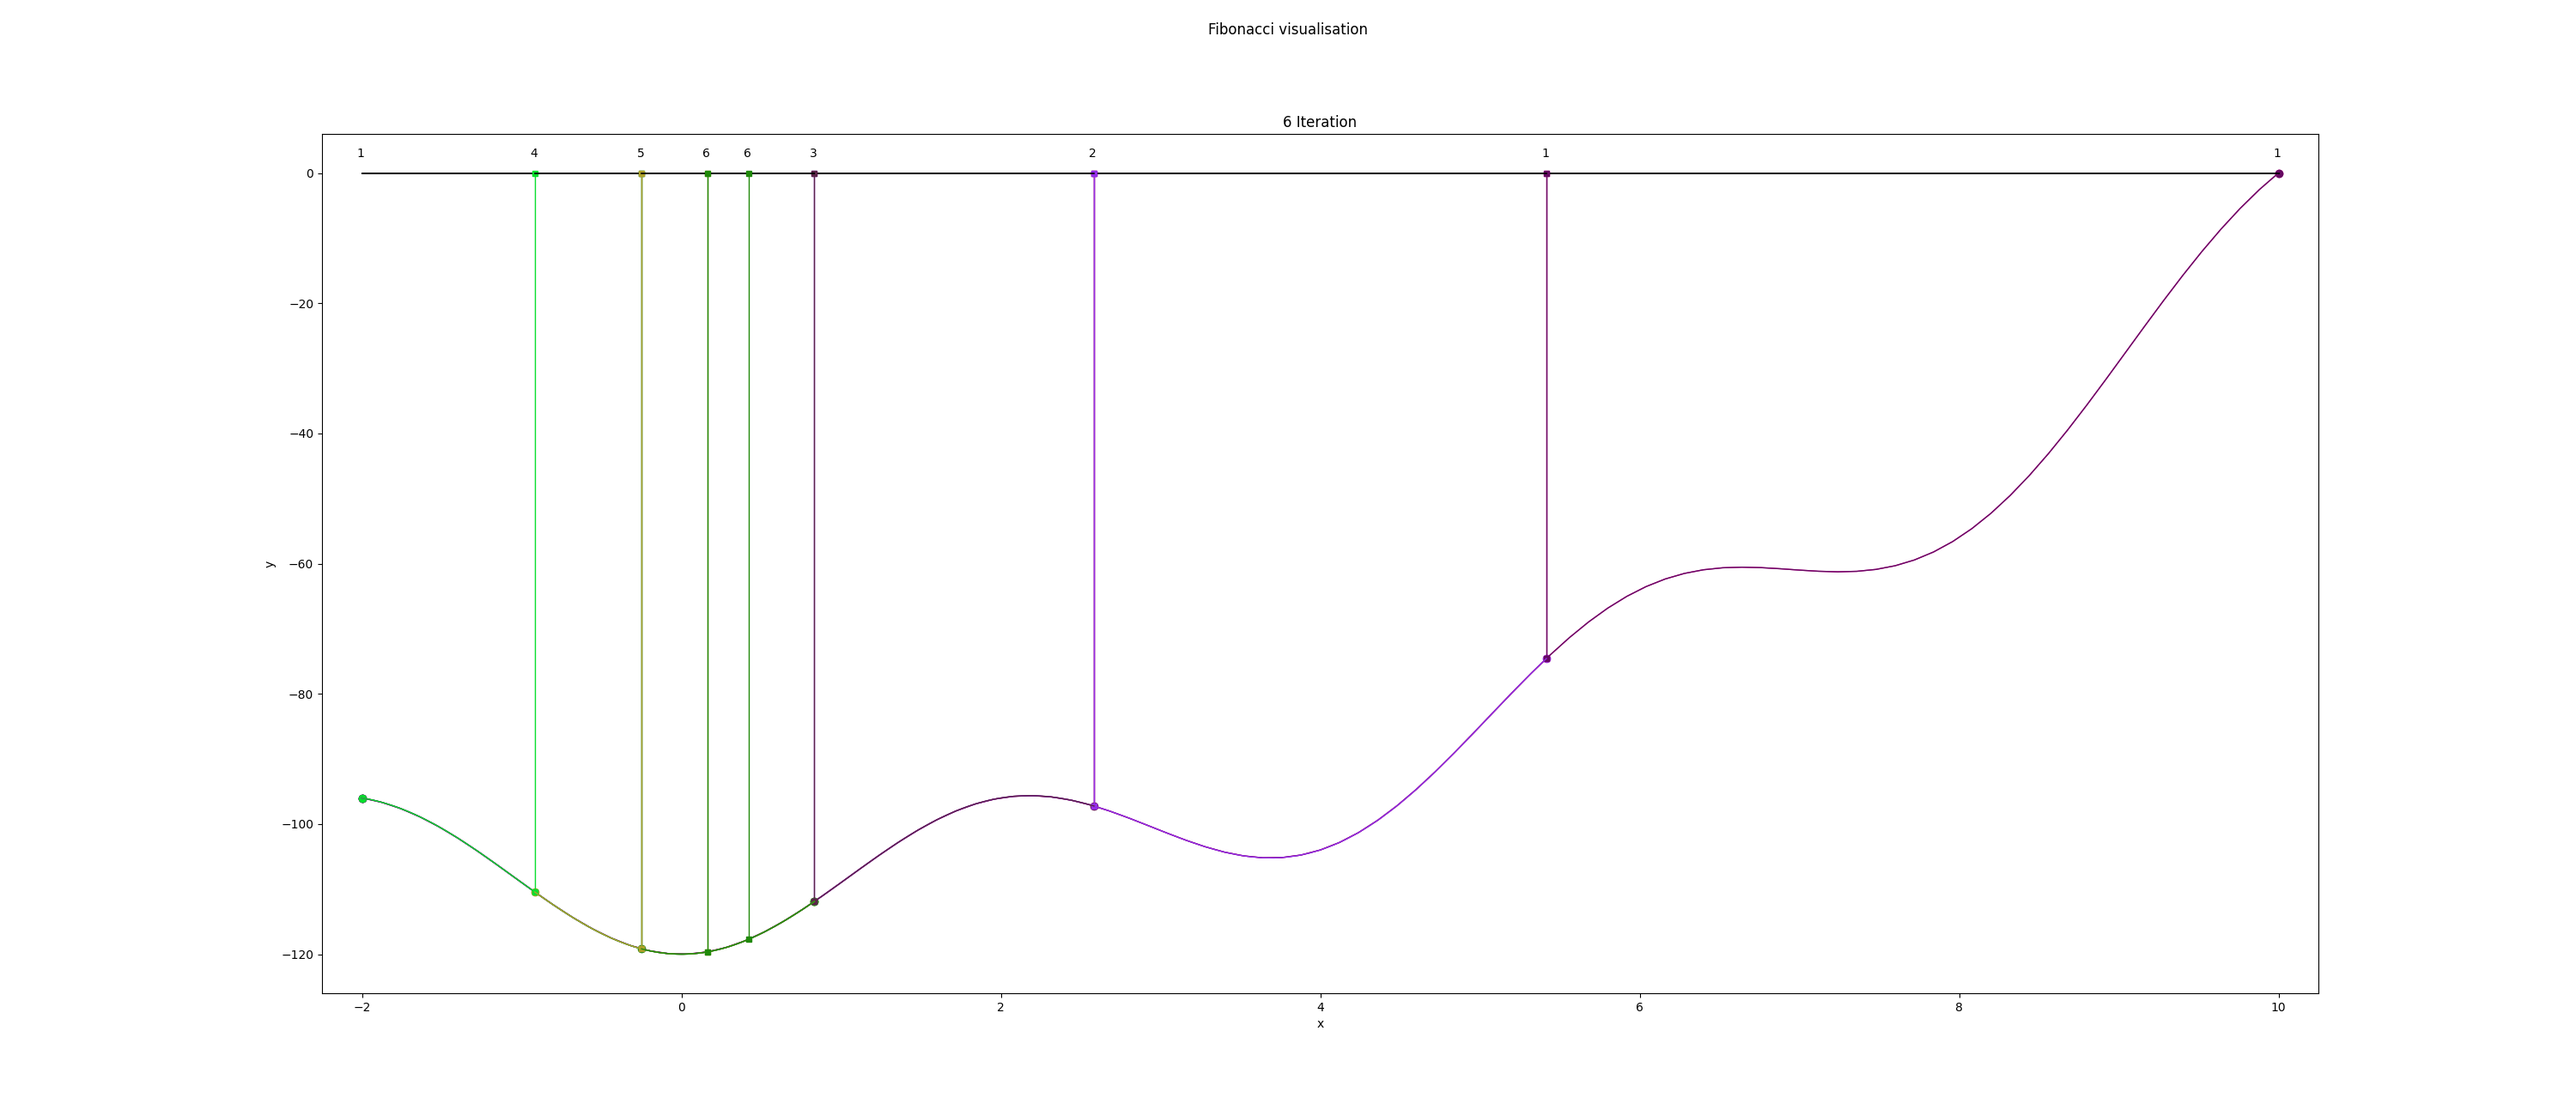
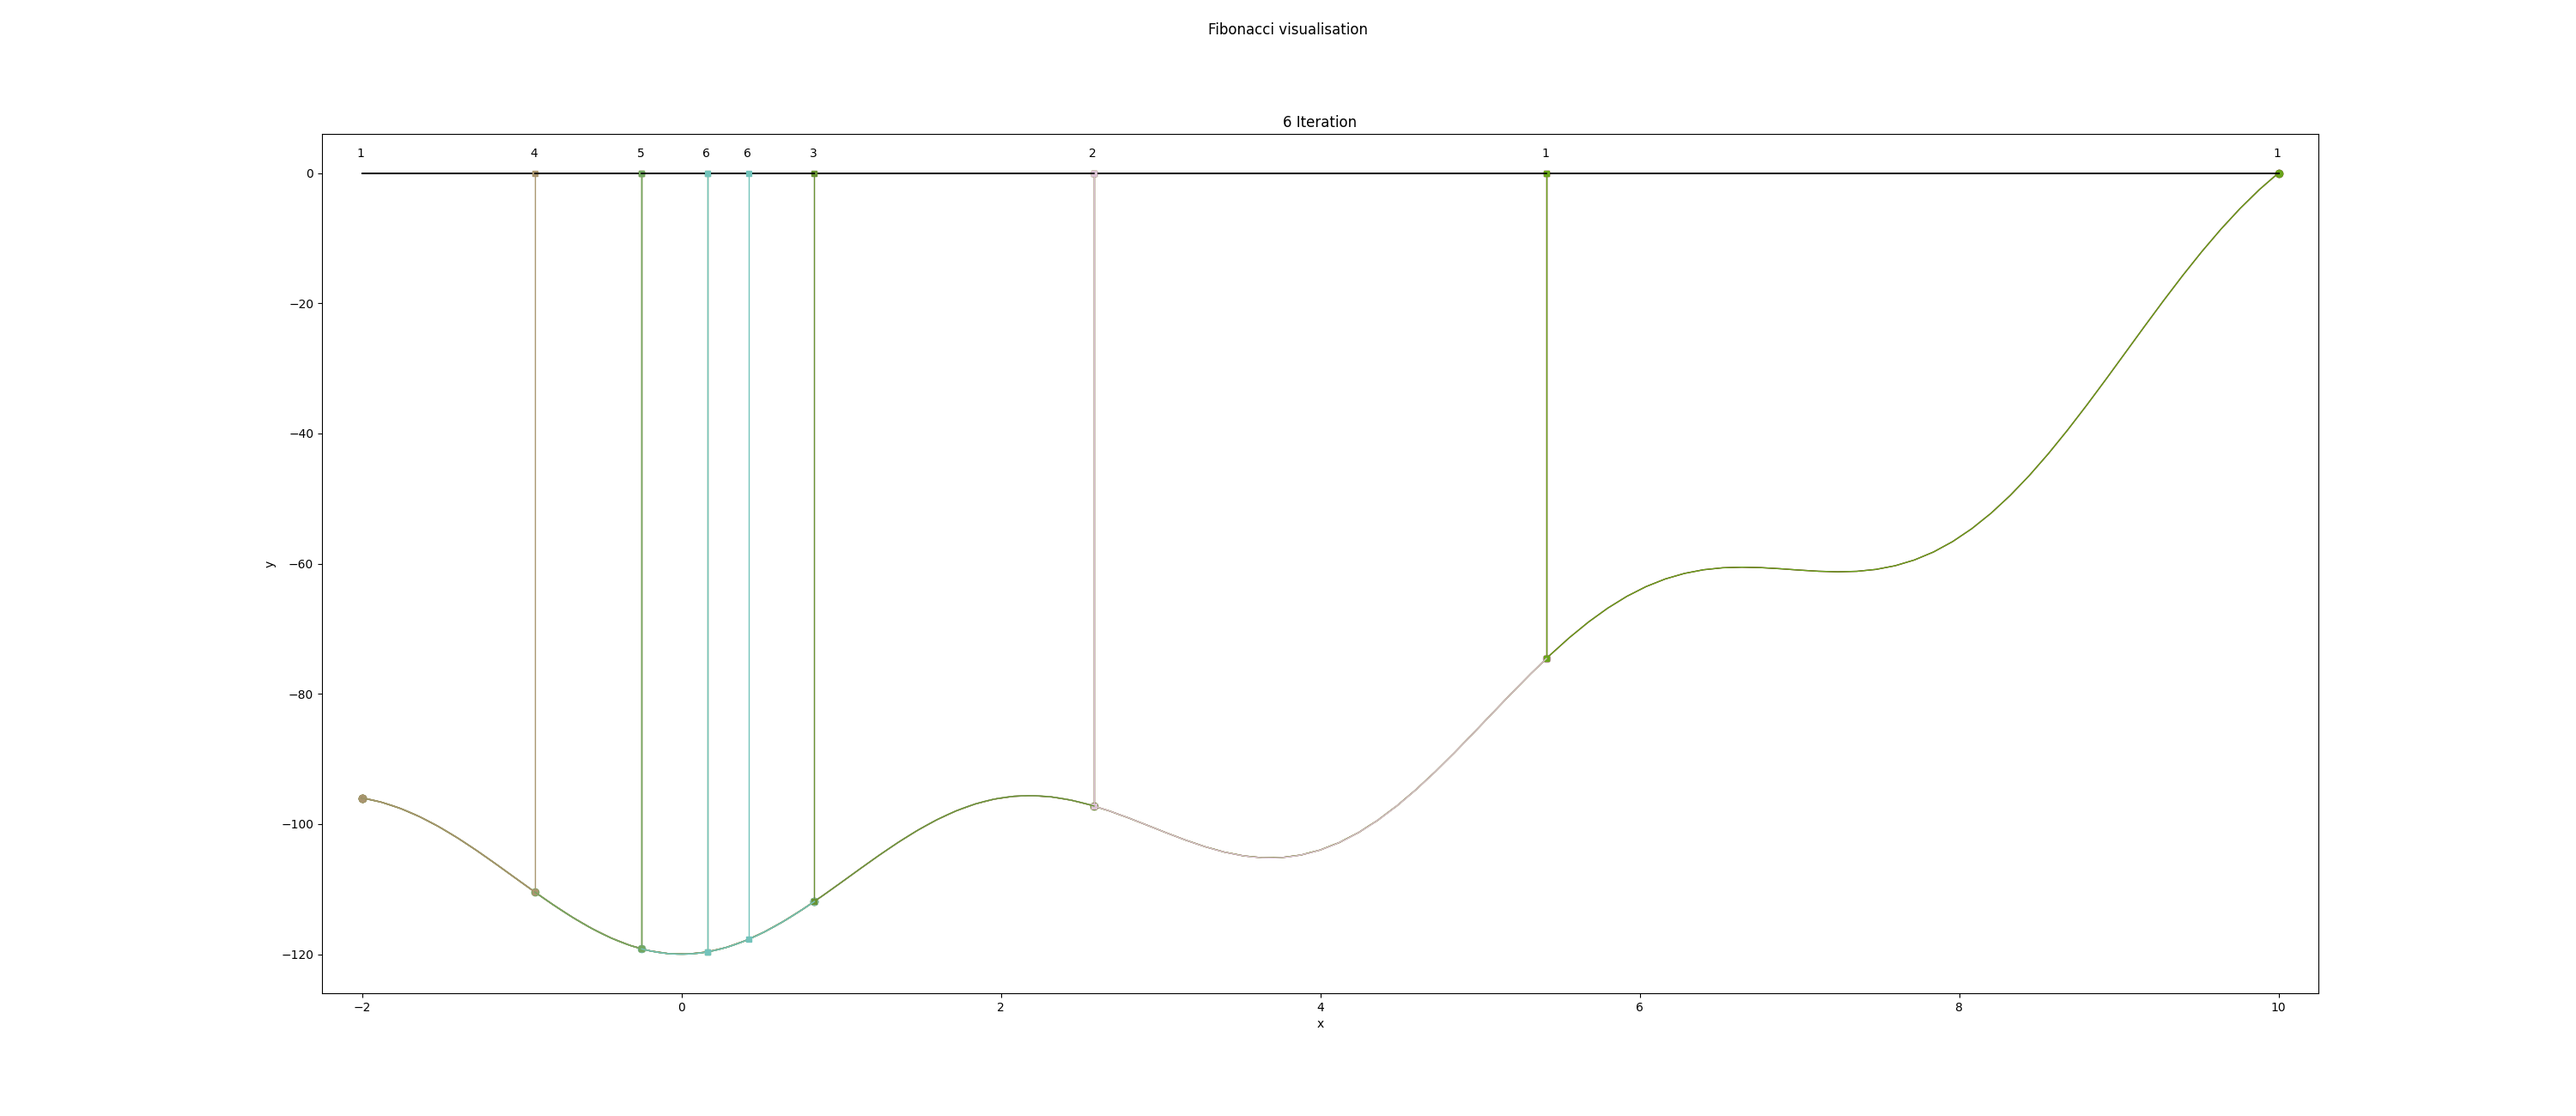
fsearch

Changed region(s): [[0.248, 0.8308, 0.279, 0.8615]]

diff --git a/11_fibonacci/fsearch.py b/11_fibonacci/fsearch.py
@@ -3,14 +3,11 @@ import matplotlib  # Импортирует основной модуль Matplo
 matplotlib.use('Agg')  # Устанавливает backend 'Agg' — позволяет сохранять графики в файлы без GUI (подходит для серверов/headless-режима).
 import matplotlib.pyplot as plt  # Импортирует pyplot из Matplotlib под псевдонимом plt — основной инструмент построения графиков.
 import random  # Импортирует модуль random для генерации случайных цветов при визуализации.
-'''
-def f1(x):     return -2 * np.sin(np.sqrt(abs(x / 2 + 10))) - x * np.sin(np.sqrt(abs(x - 10)))
+
+def f(x):     return -2 * np.sin(np.sqrt(abs(x / 2 + 10))) - x * np.sin(np.sqrt(abs(x - 10)))
 
 def f2(x):    return x**2-10*np.cos(0.5* np.pi*x)-110
 
-def f(x): return (x - 3) ** 2 - 3 * x + x ** 2 - 40  # Определяет целевую функцию f(x); упрощается до f(x) = 2x² - 9x - 31.
-'''
-def f(x): return x**2-10*np.cos(0.5* np.pi*x)-110
 
 def makefib(n):
     fib = [1, 1]  # Инициализирует список первых двух чисел Фибоначчи.
